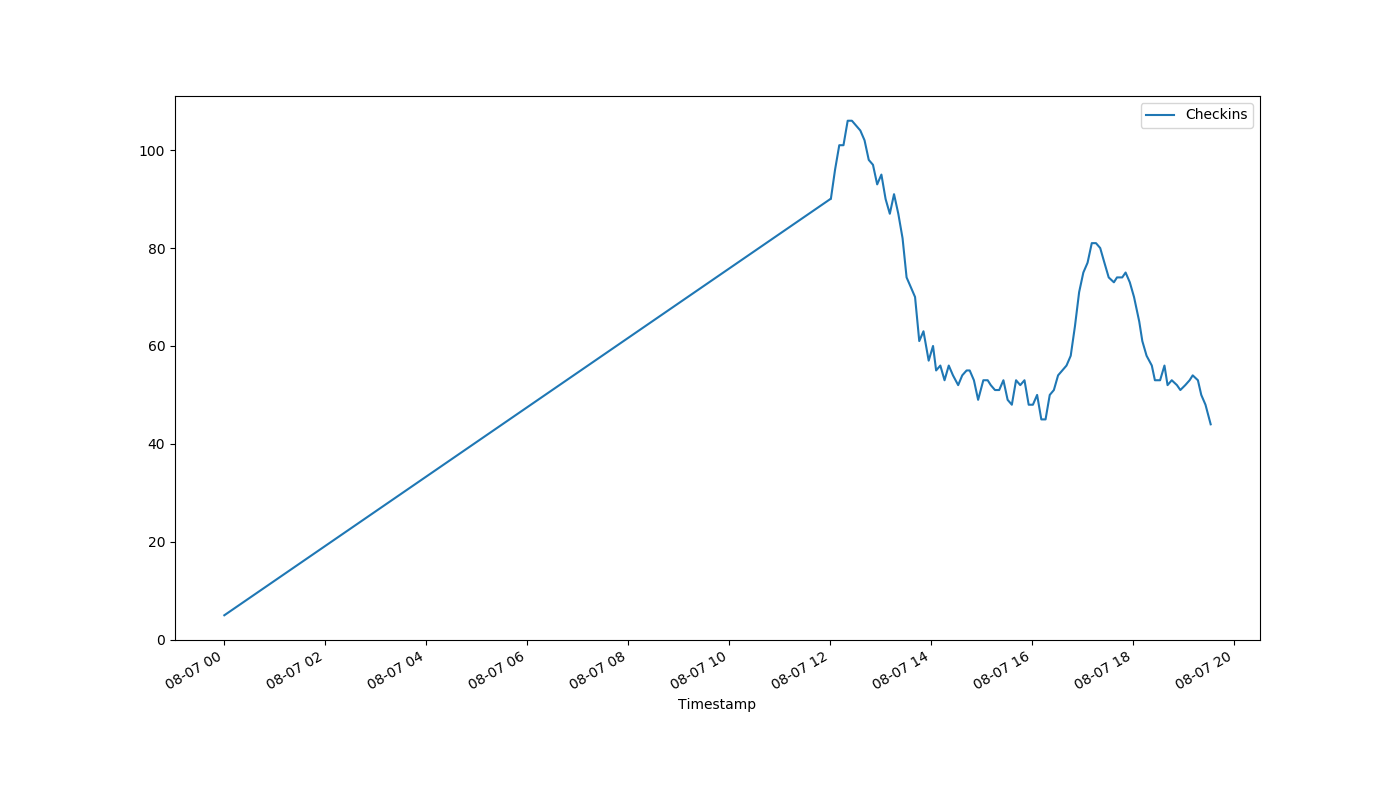
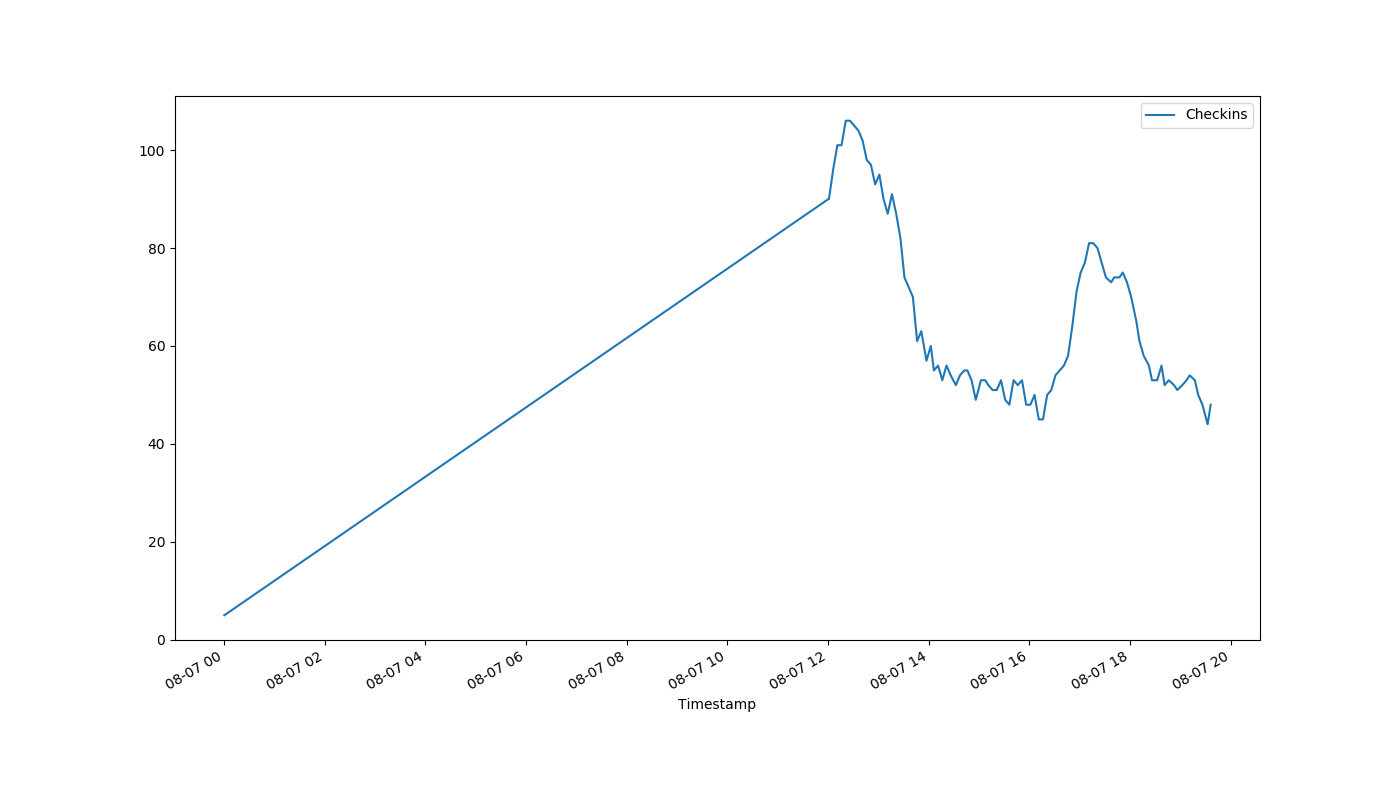
auto-Aug-07-19:36:41

diff --git a/index.html b/index.html
@@ -1,1 +1,1 @@
-<!DOCTYPE html><html><head><meta http-equiv="refresh" content="30"><link rel='stylesheet' href='holmcurrent.css'></head><body><p id='count'>44</p><div id='graph-wrap'><img id='graph' src='holmgraph-Aug-07.png'></div><p id='updated'>Last updated 19:33:07 / 19:32:23</p></body></html>
+<!DOCTYPE html><html><head><meta http-equiv="refresh" content="30"><link rel='stylesheet' href='holmcurrent.css'></head><body><p id='count'>48</p><div id='graph-wrap'><img id='graph' src='holmgraph-Aug-07.png'></div><p id='updated'>Last updated 19:36:07 / 19:36:03</p></body></html>
